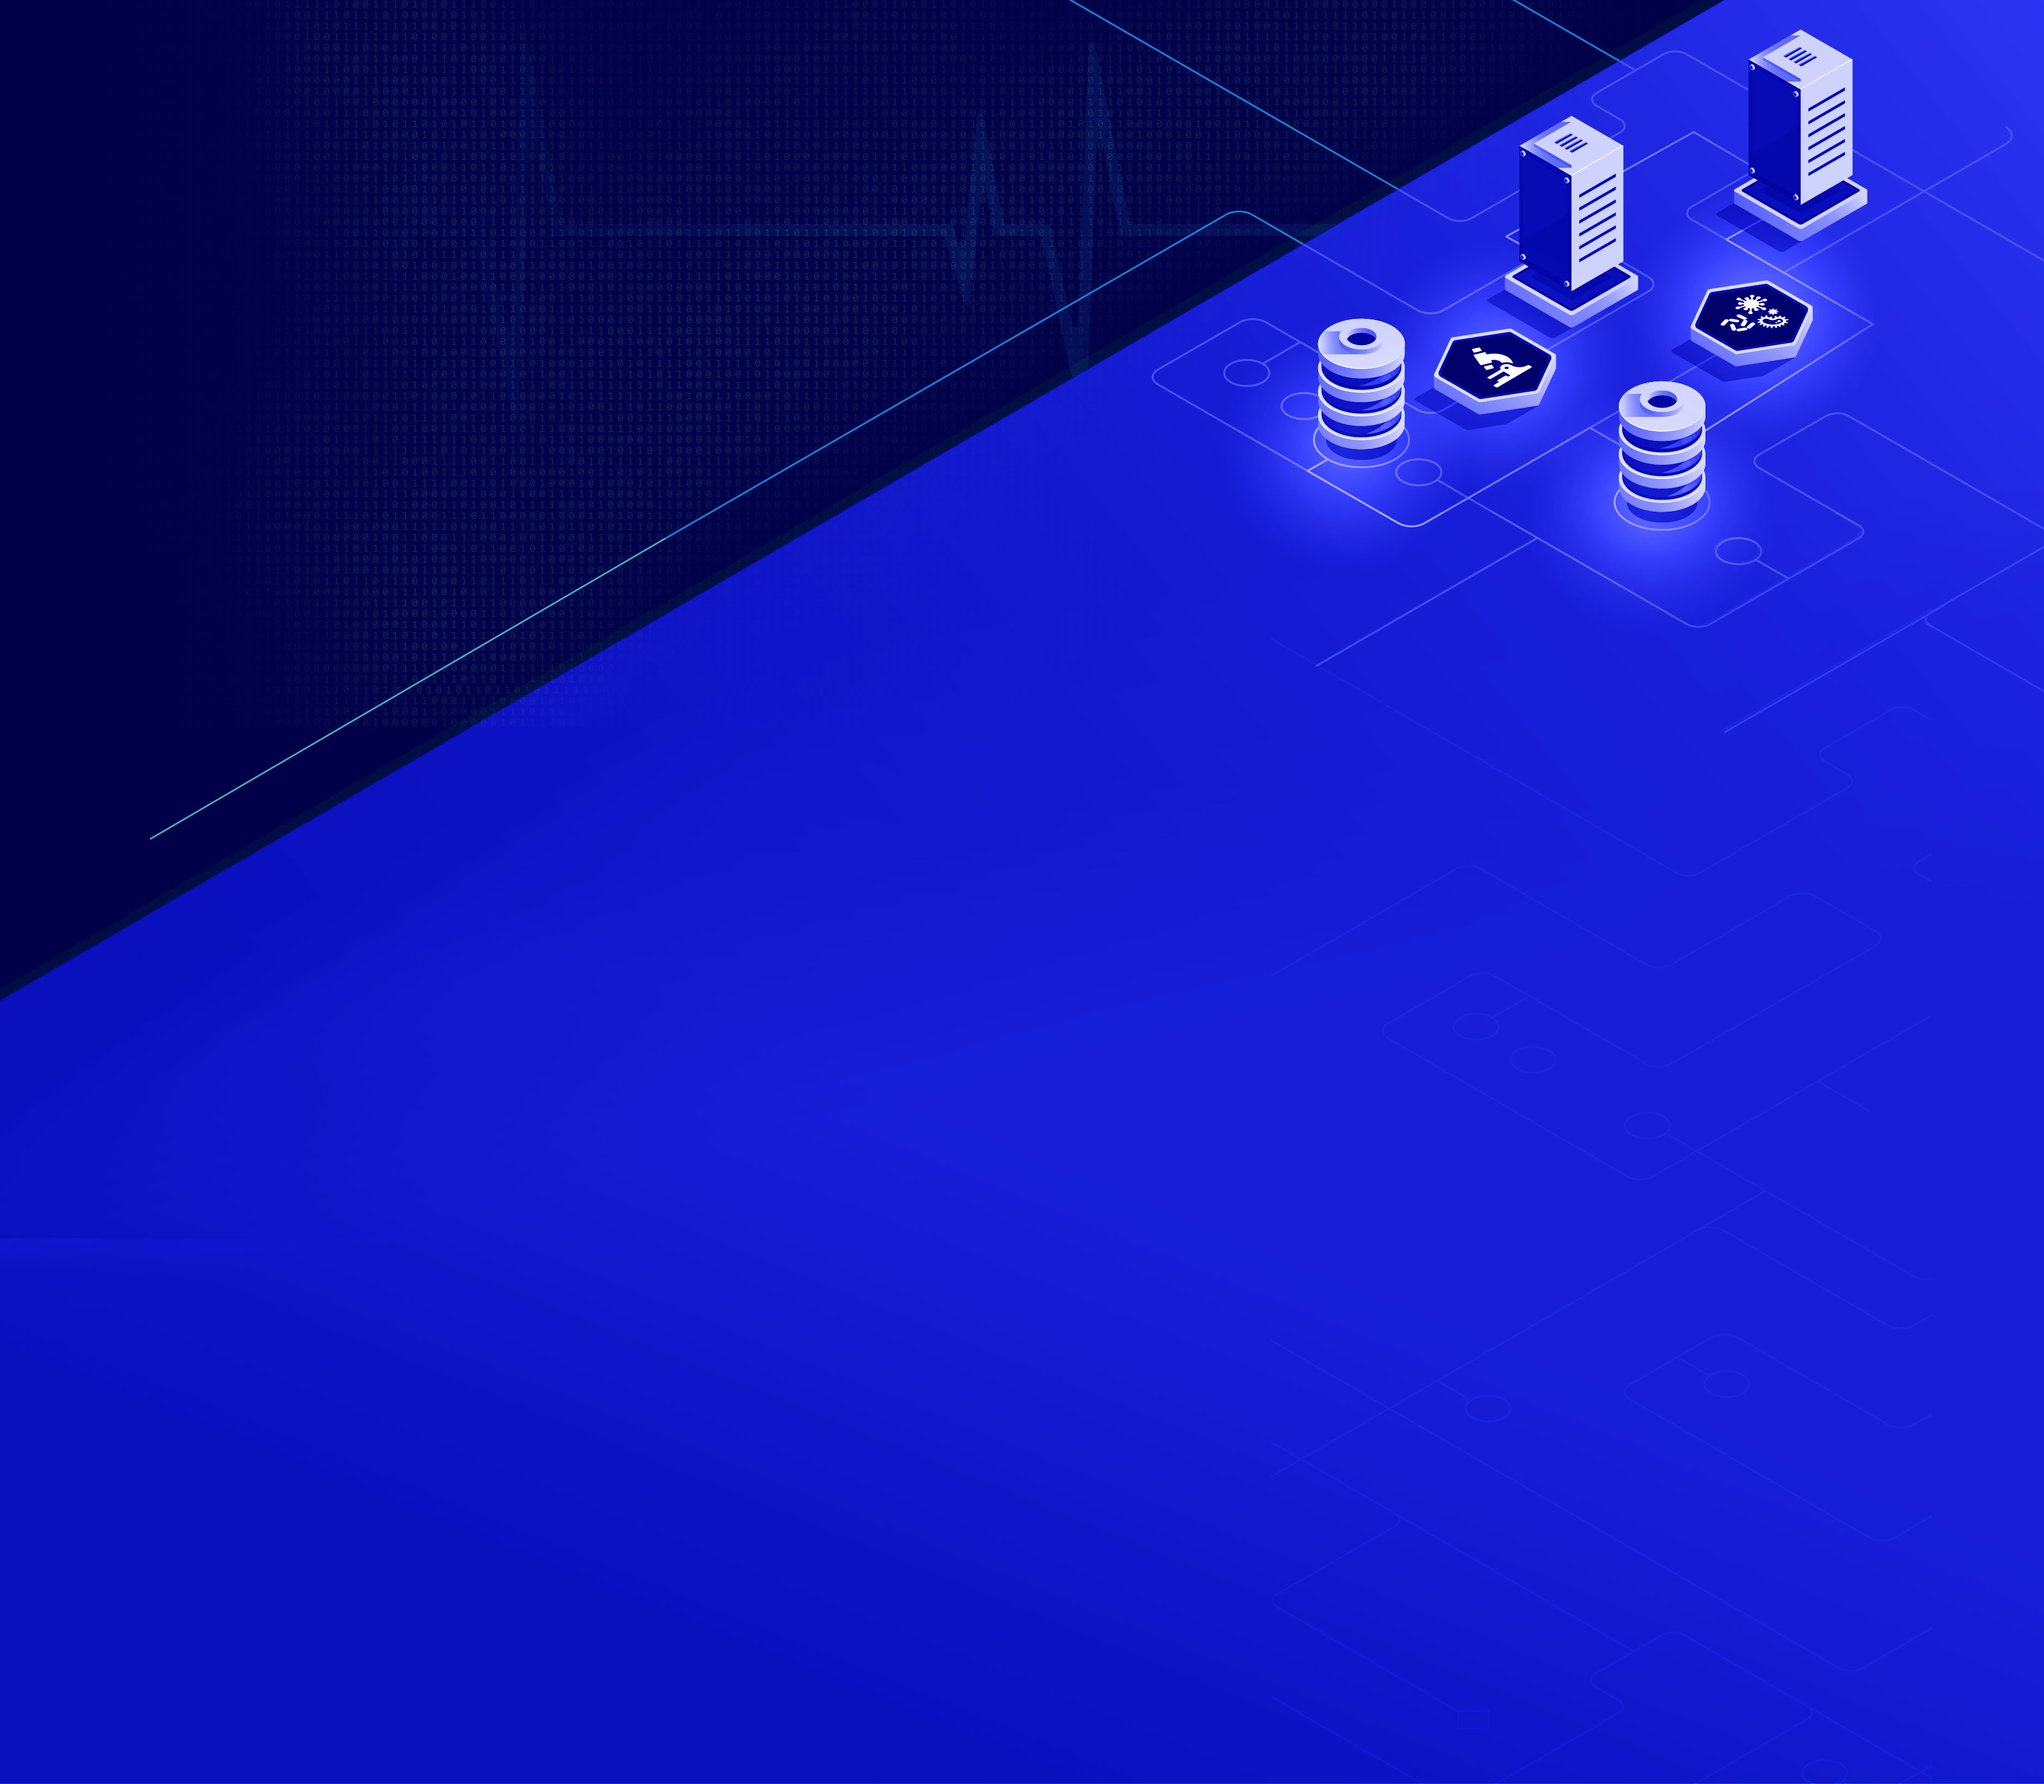
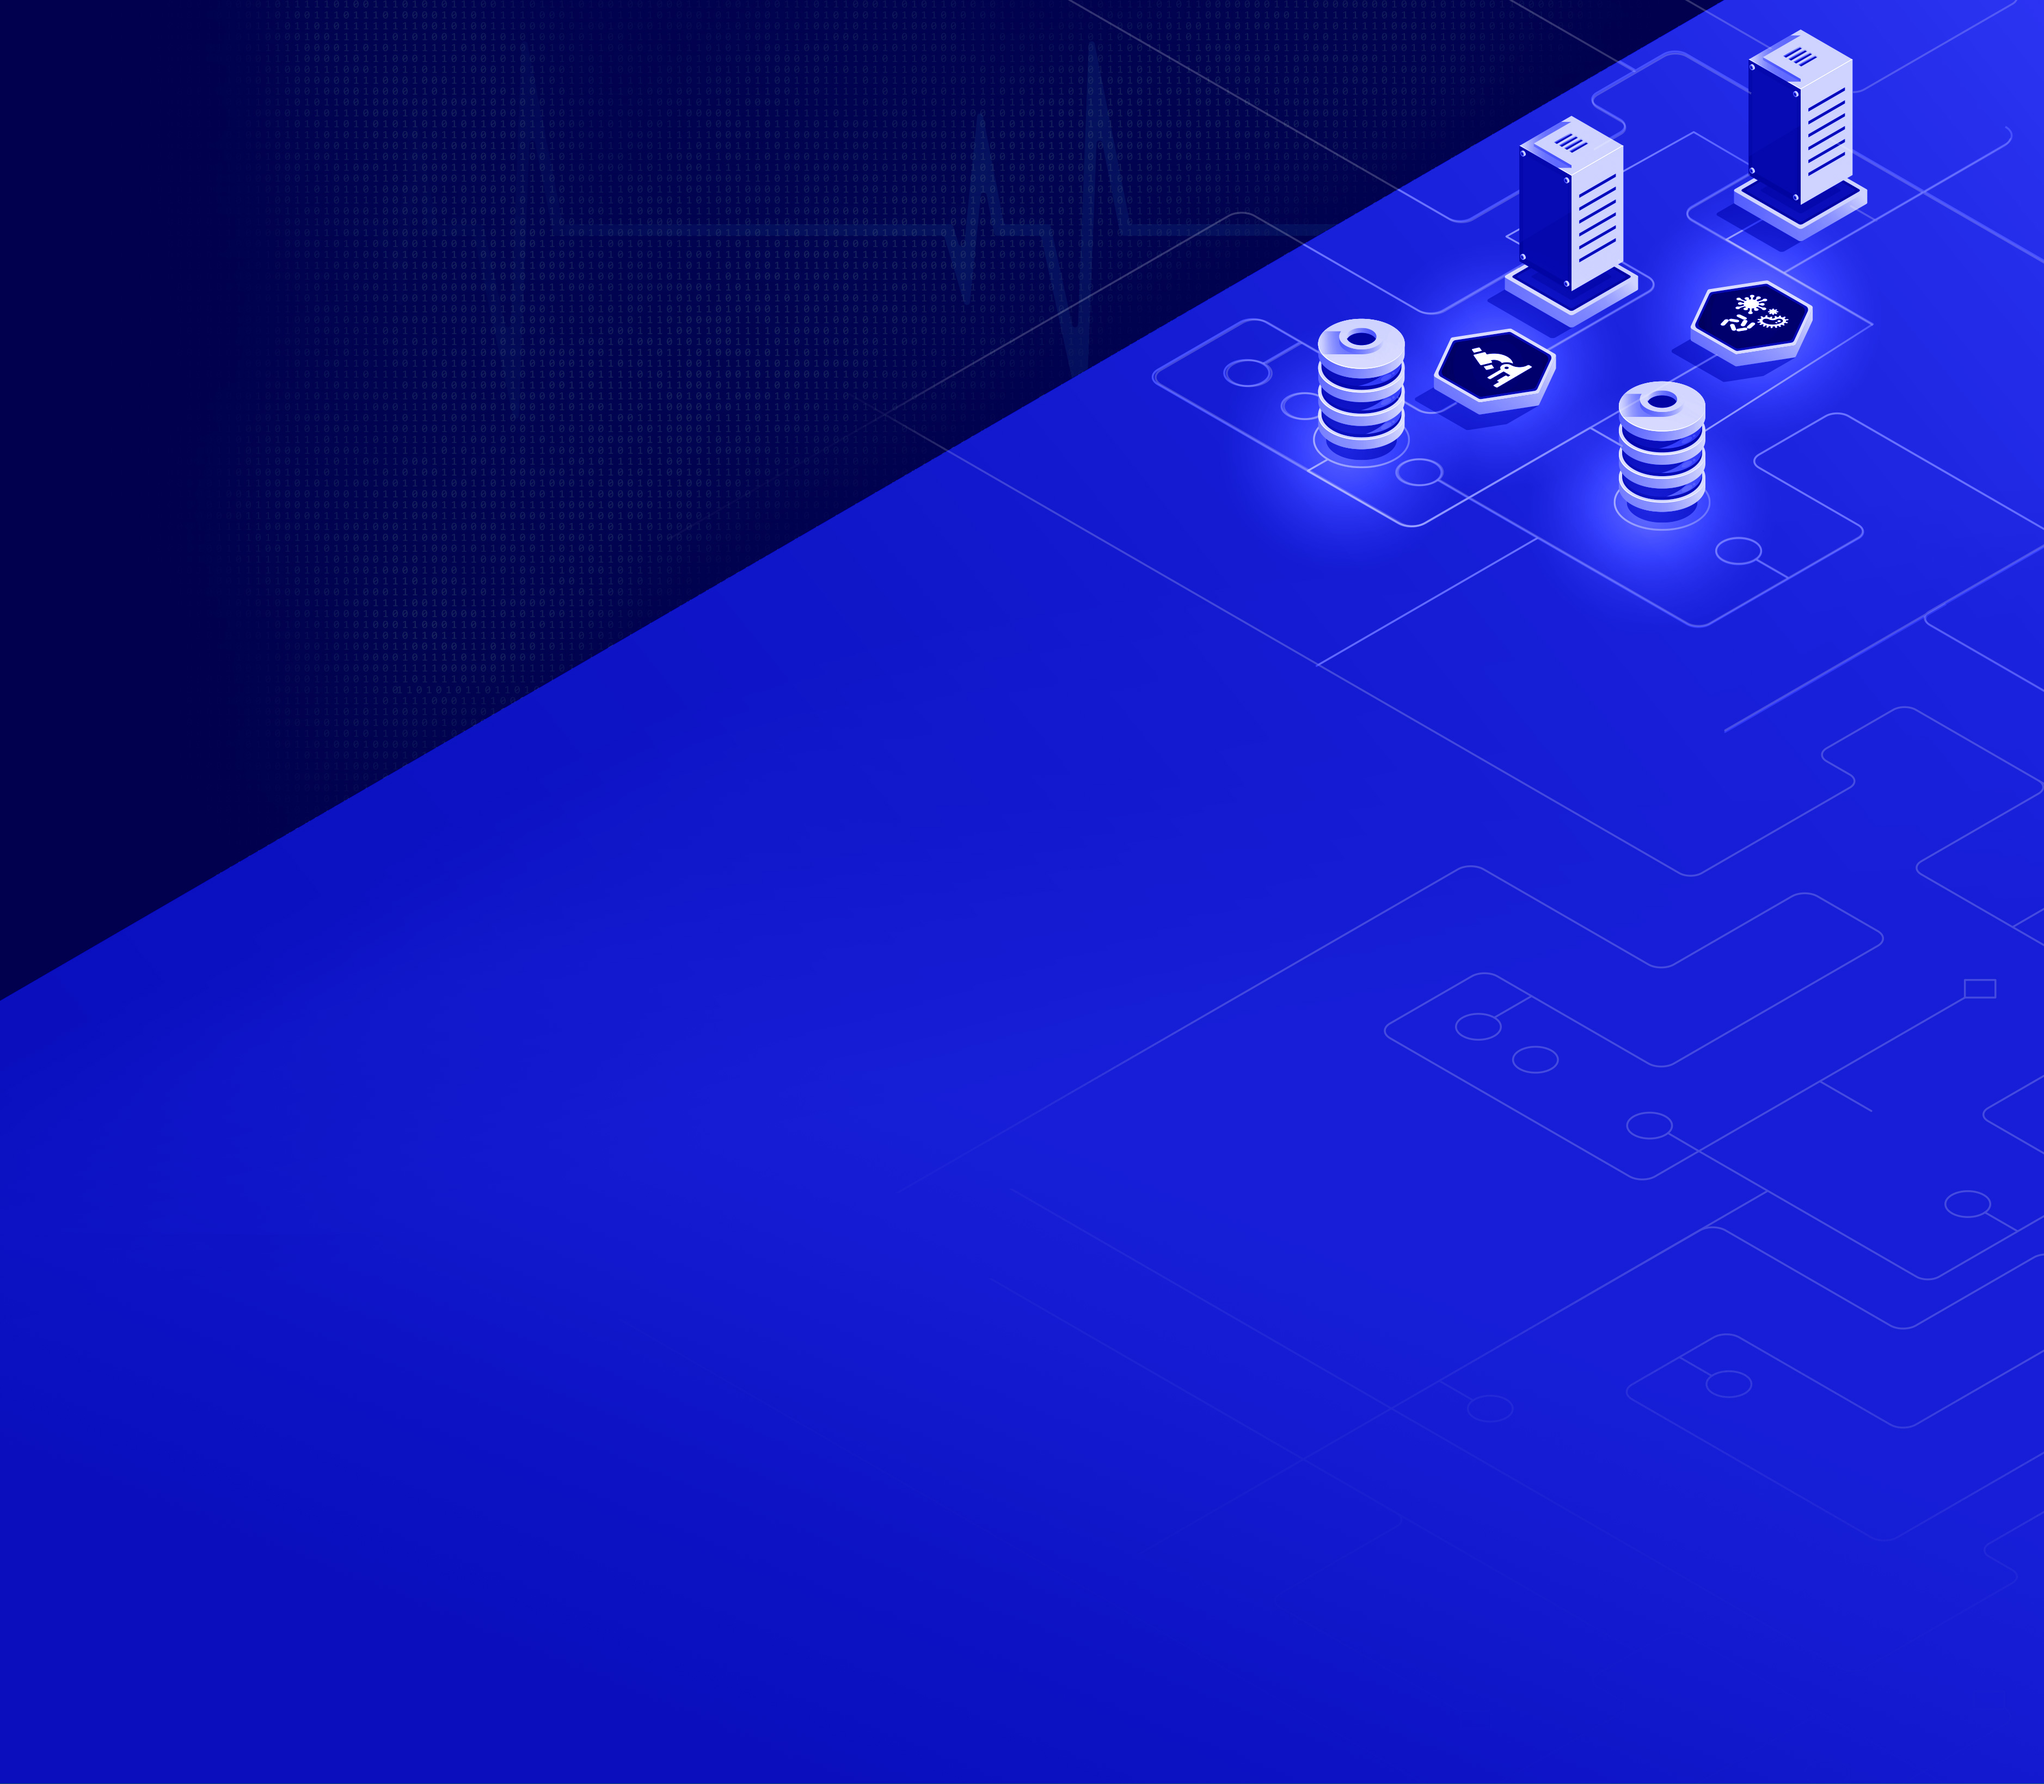
Added white line

Changed region(s): [[0.9971, 0.4356, 1.0, 0.4667]]

diff --git a/styles.css b/styles.css
@@ -56,7 +56,7 @@ body {
   background-image: url(header-final.jpg);
   background-repeat: no-repeat;
   background-size: 100%;
-  background-position: center -9vh;
+  background-position: center -10vh;
 }
 
 /* just tryin somethin out here
@@ -104,10 +104,10 @@ p, ul {
 
 h1.phac{
   text-align: left;
-  font-size: 3rem;
-  font-family:"BebasneueBold", Arial, Helvetica, sans-serif; 
+  font-size: 6rem;
+  letter-spacing: .25rem;
+  font-family: 'Teko', sans-serif;
   text-transform: uppercase;
-  font-weight: 600;
 }
 
 h2.phac{
@@ -120,10 +120,10 @@ h2.phac{
 
 h3.phac{
   text-align: left;
-  font-size: 1.8rem;
-  font-family: "BebasneueBold", Arial, Helvetica, sans-serif; 
+  font-size: 2.5rem;
+  letter-spacing: .15rem;
+  font-family: 'Teko', sans-serif;
   text-transform: uppercase;
-  font-weight: 600;
 }
 
 h3.button-title, .button-title{
@@ -605,6 +605,8 @@ footer a:hover {color: #fff;}
 	position: relative;
 }
 
+
+
 .vision:before {
 content: "";
     background: url(images/2.jpg);
@@ -627,6 +629,45 @@ content: "";
 	background-position: -10% 50%;
 }
 
+.header {
+	position: relative;
+}	
+.header:after {
+    content: "";
+    position: absolute;
+    width: 3755px;
+    left: 48%;
+    -webkit-clip-path: polygon(0% 66.6%, 0% 80%, 50.2% 80%, 51.2% 47.8%, 100% 47.8%, 100% 33.3%, 51% 33.3%, 50% 66.6%);
+    clip-path: polygon(0% 66.6%, 0% 80%, 50% 80%, 50.7% 47.8%, 100% 47.8%, 100% 33.3%, 50.6% 33.3%, 49.9% 66.6%);
+    height: 3rem;
+    margin-bottom: -1rem;
+    margin-left: -1877.5px;
+    background: white;
+    bottom: 0;
+    z-index: 2;
+}
+
+.header:before {
+    content: "";
+    position: absolute;
+    width: 3755px;
+    left: 48%;
+    -webkit-clip-path: polygon(0% 66.6%, 0% 80%, 50.2% 80%, 51.2% 47.8%, 100% 47.8%, 100% 33.3%, 51% 33.3%, 50% 66.6%);
+    clip-path: polygon(0% 66.6%, 0% 80%, 50% 80%, 50.7% 47.8%, 100% 47.8%, 100% 33.3%, 50.6% 33.3%, 49.9% 66.6%);
+    height: 3rem;
+    margin-bottom: -1rem;
+    margin-left: -1877.5px;
+    background: white;
+    bottom: 0;
+    z-index: 2;
+}
+
+
+.vision {
+	padding-top: 4rem!important;
+    margin-top: -1rem;
+    clip-path: polygon(0% 1rem, 0% 100%, 100% 100%, 100% 0%, 50.5% 0%, 48% 1rem);
+}
 
 
 .module-module-module {
